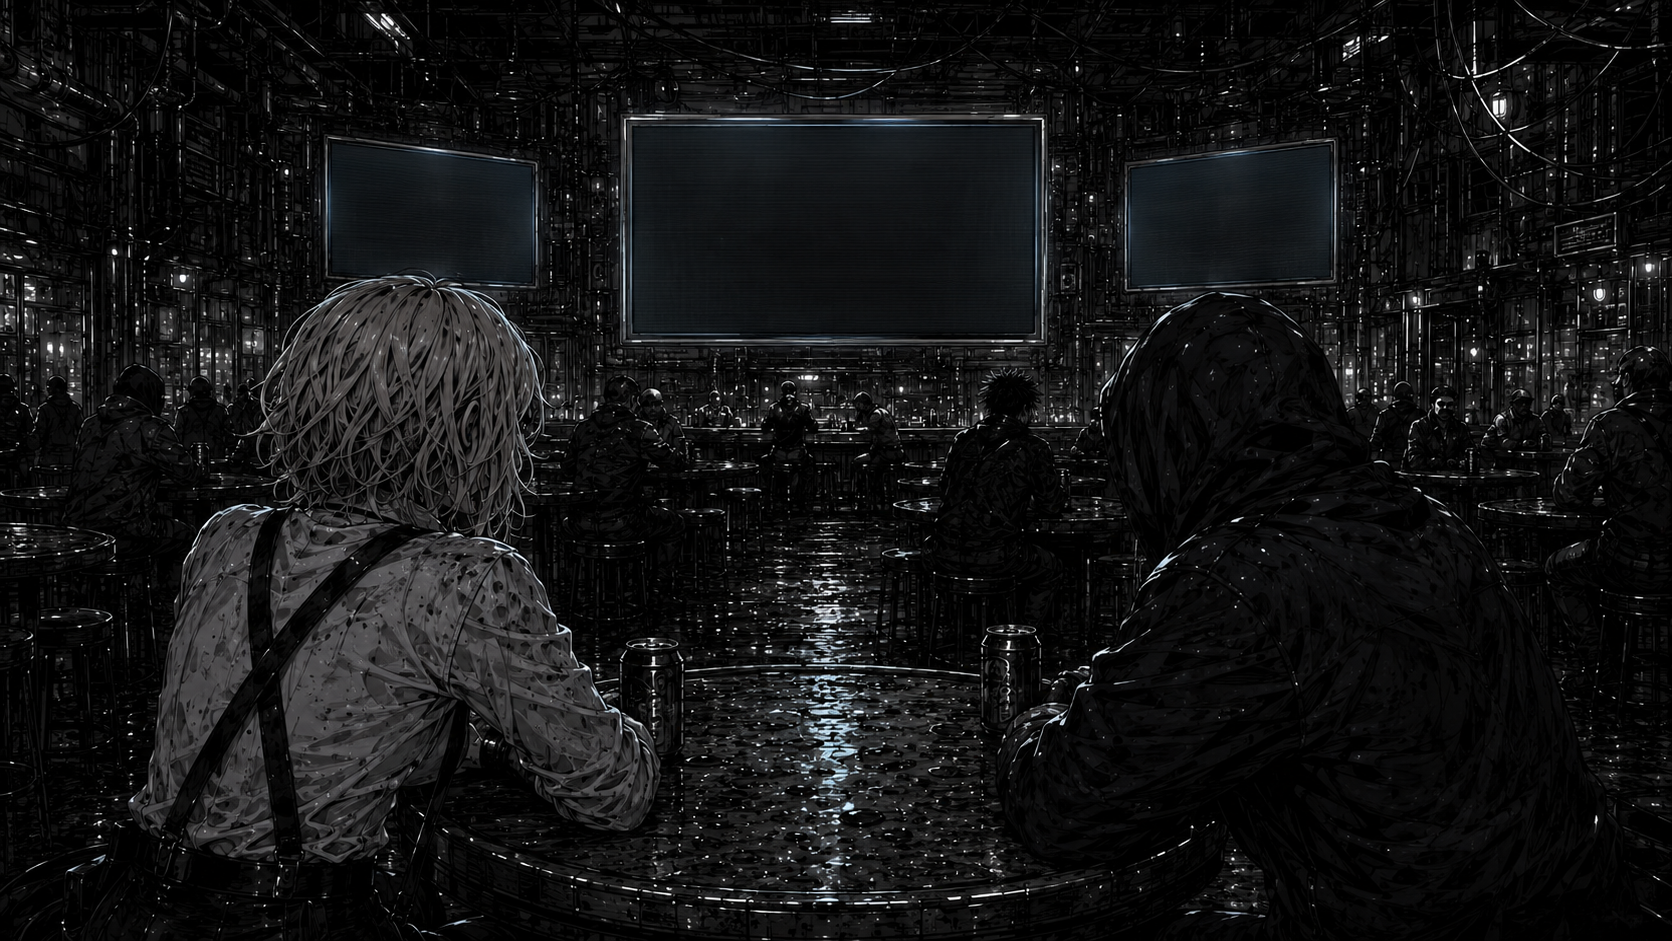
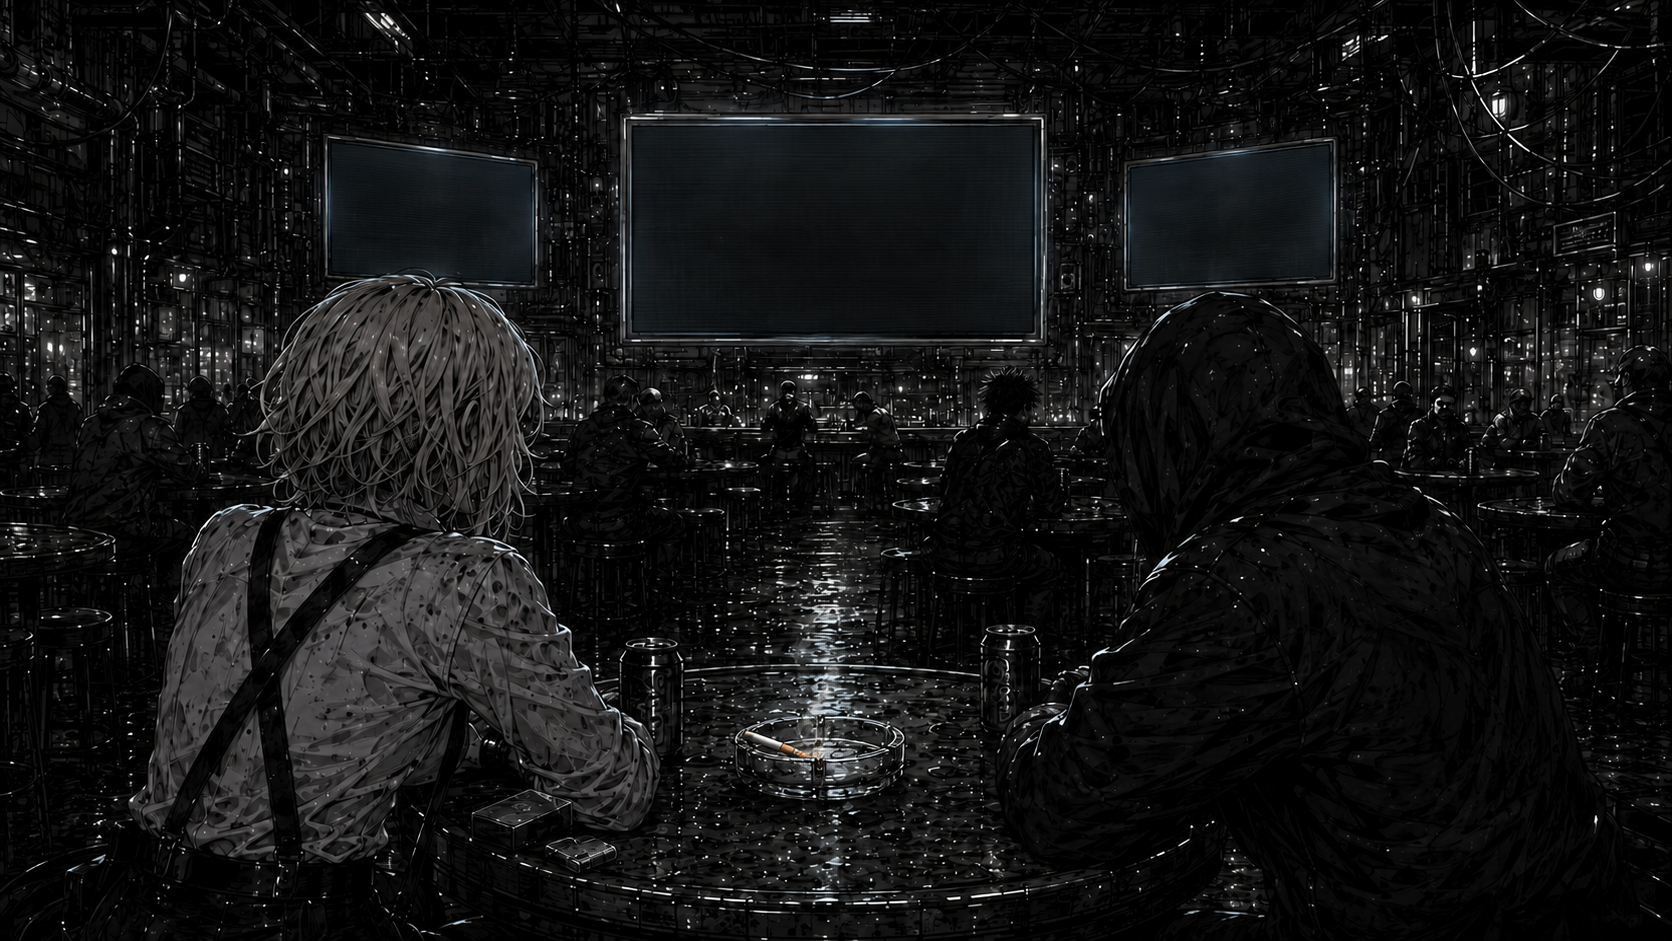
Mindstream-Tischszene und Seitenmonitore aktualisieren

diff --git a/index.html/mindstream.html b/index.html/mindstream.html
@@ -250,7 +250,7 @@ button:hover {
 
 #leftScreen {
     left: 19.2%;
-    top: 13.8%;
+    top: 12.5%;
 
     width: 13.2%;
     height: 17.2%;
@@ -274,7 +274,7 @@ button:hover {
 
 #rightScreen {
     left: 68.1%;
-    top: 14.1%;
+    top: 12.8%;
 
     width: 13.3%;
     height: 17.1%;
